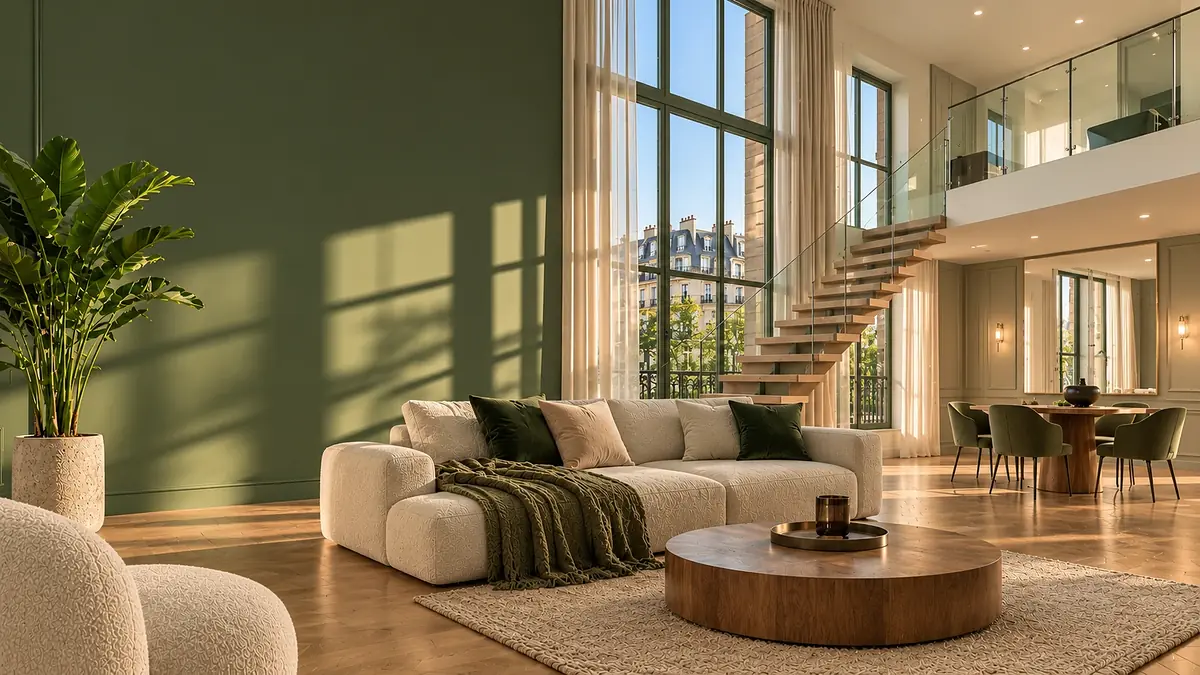
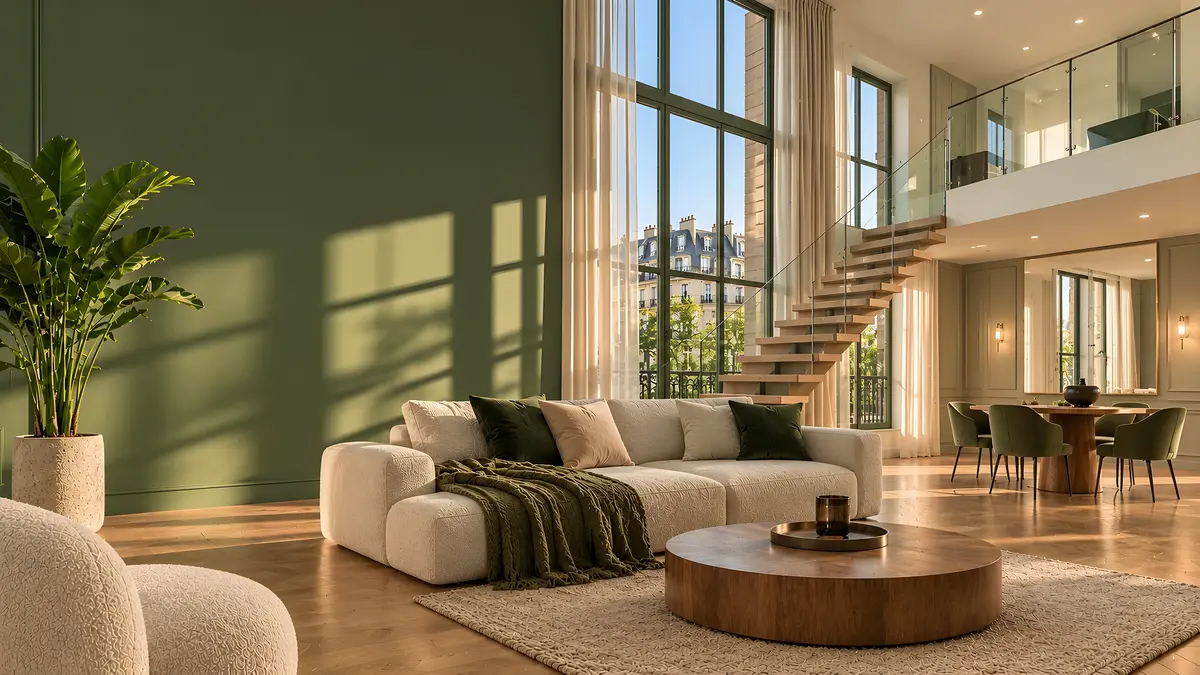
Replace hero image with higher quality version
New hero image (6688x3764) replaces the previous lower resolution
version (1672x941). Regenerated JPEG, WebP 2400px and WebP 1200px
(OG) variants. Updated width/height attributes to match new aspect
ratio (2400x1351).

Claude-Session: https://claude.ai/code/session_012N31cUYREvK4yqXqtA6i7v

diff --git a/index.html b/index.html
@@ -1810,7 +1810,7 @@
     <div class="hero-bg">
       <picture>
         <source srcset="images/hero-accueil-2400.webp" type="image/webp">
-        <img src="images/hero-accueil.jpg" alt="Intérieur d'un duplex lumineux" width="2400" height="1600" fetchpriority="high">
+        <img src="images/hero-accueil.jpg" alt="Intérieur d'un duplex lumineux" width="2400" height="1351" fetchpriority="high">
       </picture>
     </div>
     <div class="hero-overlay"></div>
